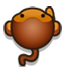
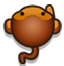
Added dartMonkey texture

Changed region(s): [[0.0312, 0.0606, 0.9688, 1.0]]

diff --git a/BalloonsTowerDefence/src/balloonsTowerDefence/MonkeyTower.java b/BalloonsTowerDefence/src/balloonsTowerDefence/MonkeyTower.java
@@ -25,8 +25,8 @@ public abstract class MonkeyTower implements Entity {
 	public MonkeyTower(MonkeyTowerType type, Floor startingFloor, CopyOnWriteArrayList<Balloon> balloons) {
 		this.x = startingFloor.getxPos();
 		this.y = startingFloor.getyPos();
-		this.width = DrawInFrame.GRID_SQUARE_SIZE;
-		this.height = DrawInFrame.GRID_SQUARE_SIZE;
+		this.width = type.textures[0].getImageWidth();
+		this.height = type.textures[0].getImageHeight();
 		// this.target = target;
 		this.timeSinceLastShot = 0f;
 		this.darts = new ArrayList<Dart>();
@@ -38,8 +38,28 @@ public abstract class MonkeyTower implements Entity {
 		this.firingSpeed = type.firingSpeed;
 		this.angle = 0f;
 		this.type = type;
+		System.out.println("Image: " + type.textures[0].getImageWidth() + " " + type.textures[0].getImageHeight());
 	}
-
+	
+	public MonkeyTower(MonkeyTowerType type, Floor startingFloor, CopyOnWriteArrayList<Balloon> balloons, int width, int height) {
+		this.x = startingFloor.getxPos();
+		this.y = startingFloor.getyPos();
+		this.width = width;
+		this.height = height;
+		// this.target = target;
+		this.timeSinceLastShot = 0f;
+		this.darts = new ArrayList<Dart>();
+		this.damage = type.damage;
+		this.textures = type.textures;
+		this.balloons = balloons;
+		this.targeted = false;
+		this.range = type.range;
+		this.firingSpeed = type.firingSpeed;
+		this.angle = 0f;
+		this.type = type;
+		System.out.println("Image: " + width + " " + height);
+	}
+	
 	public void tick() {
 
 		if (!targeted) {
@@ -127,7 +147,7 @@ public abstract class MonkeyTower implements Entity {
 																				// find out how to do the math in java
 																				// aswell thank fully one had the exact
 																				// way of doing this
-		return (float) Math.toDegrees(angleTemp) - 180;
+		return (float) Math.toDegrees(angleTemp) + 90;
 	}
 
 	public float getX() {

diff --git a/BalloonsTowerDefence/src/balloonsTowerDefence/Game.java b/BalloonsTowerDefence/src/balloonsTowerDefence/Game.java
@@ -58,7 +58,7 @@ public class Game {
 
 		pickTowerMenu = gameUserInterface.getMenu("PickTower");
 
-		pickTowerMenu.addMenuButton("DartMonkey", "cannonBlueFull");
+		pickTowerMenu.addMenuButton("DartMonkey", "DartMonkey");
 		pickTowerMenu.addMenuButton("IceMonkey", "cannonBlueFull");
 		pickTowerMenu.addMenuButton("NinjaMonkey", "NinjaMonkey");
 

diff --git a/BalloonsTowerDefence/src/balloonsTowerDefence/MonkeyTowerNinjaMonkey.java b/BalloonsTowerDefence/src/balloonsTowerDefence/MonkeyTowerNinjaMonkey.java
@@ -10,7 +10,7 @@ public class MonkeyTowerNinjaMonkey extends MonkeyTower {
 
 	@Override
 	public void shoot(Balloon target) {
-		super.setAngle(super.getAngle() + 270);
+		super.setAngle(super.getAngle());
 		super.darts.add(new DartNinjaStar(super.type.dartType, super.Target, super.getX(), super.getY(), 32, 32));
 		super.acquireTarget();
 	}
